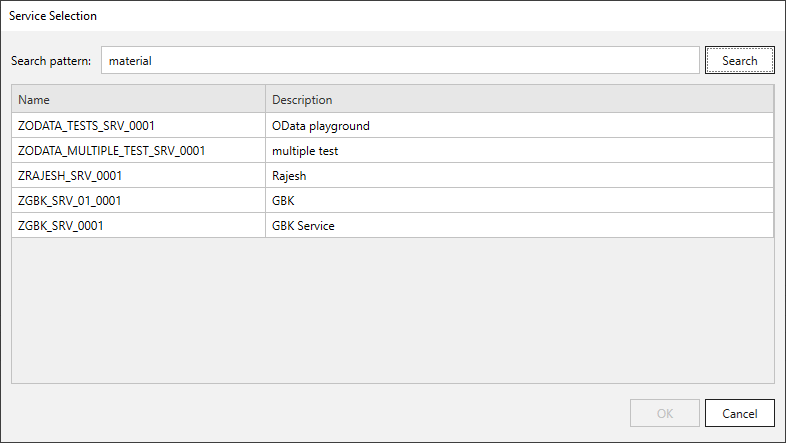
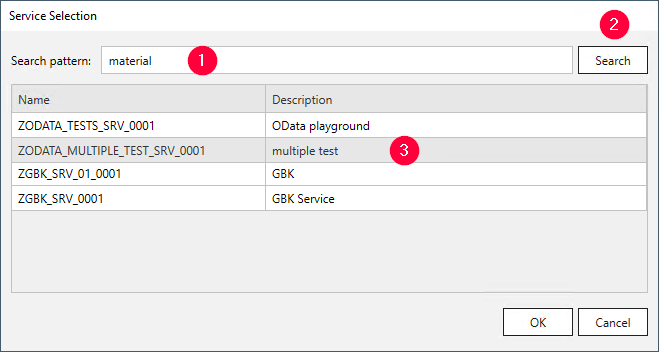
final changes

diff --git a/projects/xtract-for-alteryx/docs/documentation/odp-odata/selections.md b/projects/xtract-for-alteryx/docs/documentation/odp-odata/selections.md
@@ -10,17 +10,18 @@ Selections limit the result set of the {{ odp }} {{ component }} to extract only
 
 Follow the steps below to edit selection fields and filter data:
 
-1. In the subsection Fields, click **Edit** next to the field you want to edit. The window “Edit selection” opens.
+1. In the subsection Fields, click **Edit** next to the field you want to edit. The window “Edit selection” opens.<br>
+![edit-selection](../../assets/images/documentation/components/odp-odata/edit-selection.png){:class="img-responsive"}	
 2. Select one of the following filter types:
-	- **Single**: only extract data that equals a single specified value.
-	- **Interval**: only extract data that lies within a specified range of values.
+	- :number-1: **Single** : only extract data that equals a single specified value.
+	- :number-2: **Interval**: only extract data that lies within a specified range of values.
 	
-	screenshot
+	![selection](../../assets/images/documentation/components/odp-odata/selection.png){:class="img-responsive"}	
 	
 3. Enter a values directly into the input fields or assign existing [runtime parameters](edit-runtime-parameters.md) to the selection.
 
 	!!! note
-		When runtime parameters are available, you can use the icon button inside the input field to switch between static values (:runtime-parameters-static:) and runtime parameters (:runtime-parameters-dynamic:).
+		When runtime parameters are available, you can use the icon button next to the input field to switch between static values (:runtime-parameters-static:) and runtime parameters (:runtime-parameters-dynamic:).
 
 4. Click **[OK]** to confirm your input.
 5. Click **[Load live preview]** in the main window of the component to check the result of your selection. 

diff --git a/projects/xtract-for-alteryx/docs/documentation/odp-odata/index.md b/projects/xtract-for-alteryx/docs/documentation/odp-odata/index.md
@@ -75,10 +75,15 @@ The SAP connection is now available for selection in the {{ odpOdata }} {{ compo
 
 1. In the main window of the {{ component }}, click **[:magnifying-glass:]**. The window “Service Selection” opens.<br>
 ![Open-Look-Up-ODP](../../assets/images/documentation/components/odp-odata/{{ abbr }}/main-window_add.png){:class="img-responsive"}	
-2. In the field **Search pattern**, enter the name of an OData service :number-1:. Use wildcards (*), if needed.<br>
-![Look-Up-ODP](../../assets/images/documentation/components/odp/odp_look-up.png){:class="img-responsive"}	
-3. Click **[:magnifying-glass:]**. Search results are displayed.
-4. Select an OData service :number-2: and click **[OK]** to confirm.
+2. In the field **Search pattern** :number-1:, enter one of the following characteristics:
+	- name of an OData service
+	- description of an OData service
+	- name of the entity inside the OData service
+	
+	Use wildcards (*), if needed.<br>
+	![Look-Up-ODP](../../assets/images/documentation/components/odp-odata/look-up.png){:class="img-responsive"}	
+3. Click **[Search]** :number-2:. Search results are displayed.
+4. Select an OData service :number-3: and click **[OK]** to confirm.
 
 The application now returns to the main window of the {{ component }}.
 

diff --git a/includes/components/selections.md b/includes/components/selections.md
@@ -29,7 +29,7 @@ Follow the steps below to edit selection fields and filter data:
 5. In the column **Value**, enter values directly into the input fields **Low** and **High** or assign existing {% if page.meta.product != "xtract-is" %} [{{ variables }}](edit-runtime-parameters.md) {% else %} {{ variables }} {% endif %} to the selection fields :number-3:.
 
 	!!! note
-		When {{ variables }} are available, you can use the icon button inside the input field to switch between static values (:runtime-parameters-static:) and {{ variables }} (:runtime-parameters-dynamic:).
+		When {{ variables }} are available, you can use the icon button next to the input field to switch between static values (:runtime-parameters-static:) and {{ variables }} (:runtime-parameters-dynamic:).
 
 6. Click **[OK]** to confirm your input. 
 {% if page.meta.componentFolder != "query" and page.meta.componentFolder != "query" %}7. Click {{ previewBtn }} in the main window of the {{ component }} to check the result of your selection. 

diff --git a/projects/xtract-for-alteryx/docs/documentation/odp-odata/edit-runtime-parameters.md b/projects/xtract-for-alteryx/docs/documentation/odp-odata/edit-runtime-parameters.md
@@ -16,7 +16,7 @@ The window "Edit Selections" opens.
 2. Select a filter option, see [Edit Selections](selections.md/#edit-selections).
 3. Click the icon button next to the input field to switch between static values (:runtime-parameters-static:) and runtime parameters (:runtime-parameters-dynamic:). 
 If no icon button is available, [create a runtime parameter](#create-runtime-parameters).<br>
-![selection](../../assets/images/documentation/components/odp-odata/selection.png) 
+![selections](../../assets/images/documentation/components/odp-odata/selections.png) 
 4. Select a runtime parameter from the dropdown-list.
 5. Click **[OK]** to confirm the input.
 

diff --git a/includes/components/xfa-configuration.md b/includes/components/xfa-configuration.md
@@ -11,7 +11,7 @@ At the top of the configuration menu, click **About** to display information abo
 
 ### Connection
 
-The section *Connection* of the configuration menu defines which [SAP Connection](../sap-connection/index.md) is used for the {{ component }}.
+The section *Connection* of the configuration menu defines which {% if page.meta.componentFolder == "odp-odata" %}[SAP Connection](index.md/#sap-connection-for-odata-access) {% else %}[SAP Connection](../sap-connection/index.md) {% endif %}is used for the {{ component }}.
 
 {% if page.meta.componentFolder != "odp-odata" %}
 
